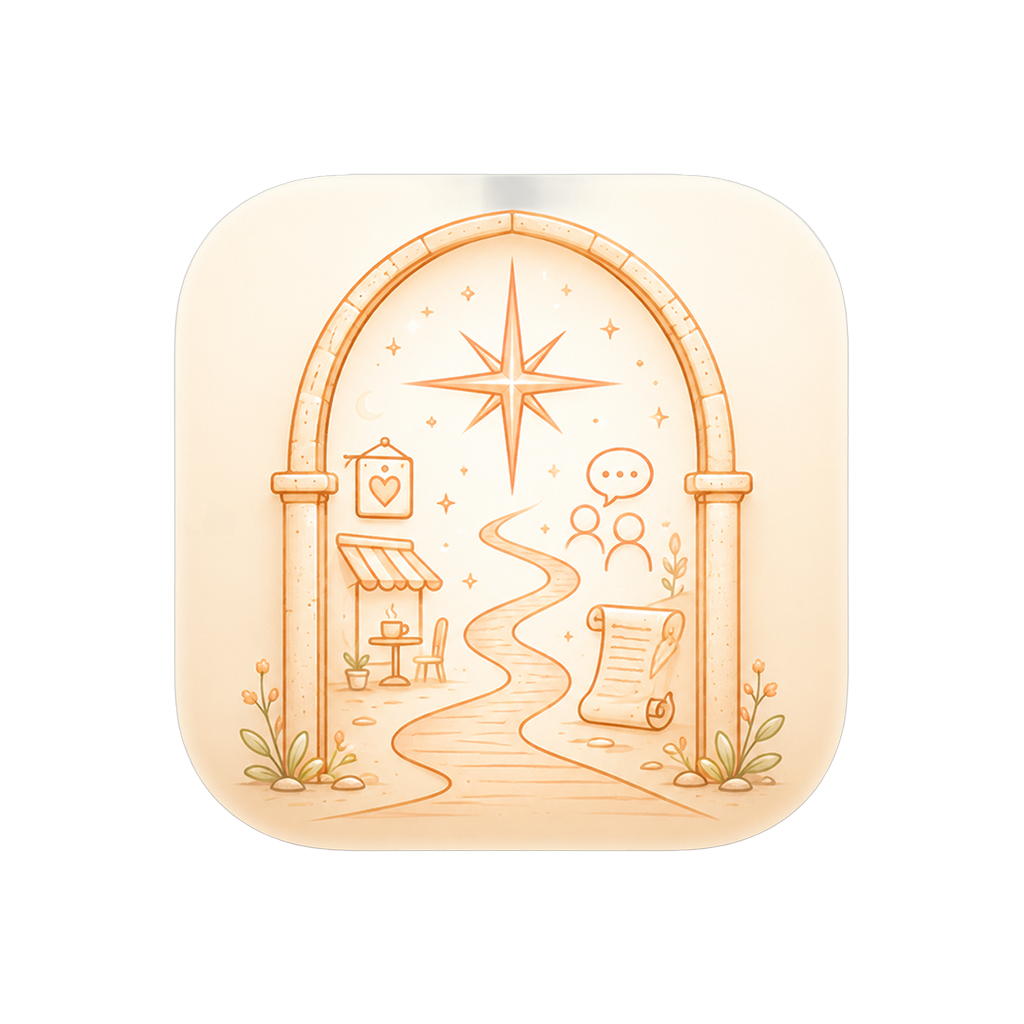
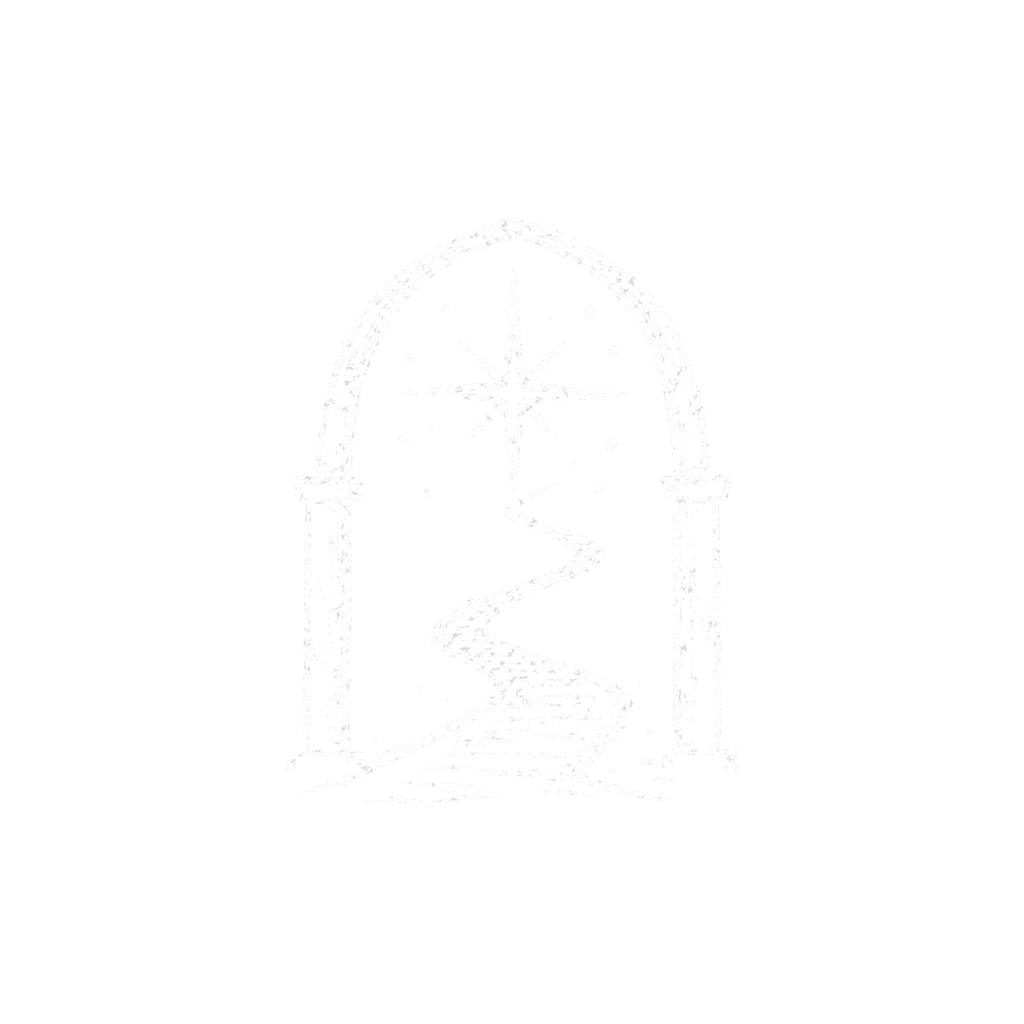
fix(startup): align native splash and brand intro

diff --git a/app/(auth)/welcome.tsx b/app/(auth)/welcome.tsx
@@ -1,104 +1,35 @@
-import { Image } from 'expo-image';
-import { LinearGradient } from 'expo-linear-gradient';
 import { router } from 'expo-router';
-import { StatusBar } from 'expo-status-bar';
-import { useEffect } from 'react';
-import { StyleSheet, Text, View } from 'react-native';
-import { useSafeAreaInsets } from 'react-native-safe-area-context';
+import { useEffect, useState } from 'react';
 
-import { useLanguage } from '../../context/LanguageContext';
+import { BrandIntro } from '../../components/BrandIntro';
 import { useAuthStore } from '../../store/authStore';
-import { colors } from '../../theme/tokens';
 
-const REDIRECT_DELAY_MS = 1000;
-const LOGO_MARK_SIZE = 164;
+const REDIRECT_DELAY_MS = 1500;
 
 /**
- * Welcome / brand-reveal screen. Shown once on cold start as a 1-second
- * splash-style intro, then auto-redirects:
- *   - authenticated → /(tabs)/plaza
- *   - not authenticated → /(auth)/login
- *
- * No CTA buttons — the page is purely a brand moment, not a hub. Sign-up
- * still lives as a link inside /(auth)/login.
+ * Welcome / brand-reveal screen. Shown after the short root brand frame, then
+ * auto-redirects auth-aware:
+ *   - authenticated -> /(tabs)/plaza
+ *   - not authenticated -> /(auth)/login
  */
 export default function WelcomeScreen() {
-  const { t } = useLanguage();
-  const insets = useSafeAreaInsets();
   const isAuthenticated = useAuthStore((s) => s.isAuthenticated);
   const hasHydrated = useAuthStore((s) => s.hasHydrated);
+  const [minimumElapsed, setMinimumElapsed] = useState(false);
 
-  // Wait for cold-start hydrate to finish before deciding where to send the
-  // user — otherwise a slow SecureStore read could fire the timer with a
-  // stale `isAuthenticated=false` and bounce a logged-in user to /login.
   useEffect(() => {
-    if (!hasHydrated) return;
     const timer = setTimeout(() => {
-      router.replace(isAuthenticated ? '/(tabs)/plaza' : '/(auth)/login');
+      setMinimumElapsed(true);
     }, REDIRECT_DELAY_MS);
     return () => clearTimeout(timer);
-  }, [hasHydrated, isAuthenticated]);
+  }, []);
 
-  return (
-    <View style={{ flex: 1, backgroundColor: colors.brandCoral }}>
-      <StatusBar style="light" />
+  // Wait for both the visible brand moment and auth hydrate. If SecureStore is
+  // slow, correctness wins; otherwise welcome stays on-screen for 1.5 seconds.
+  useEffect(() => {
+    if (!minimumElapsed || !hasHydrated) return;
+    router.replace(isAuthenticated ? '/(tabs)/plaza' : '/(auth)/login');
+  }, [hasHydrated, isAuthenticated, minimumElapsed]);
 
-      <LinearGradient
-        colors={['#FA8E84', '#F67673', '#E5605C']}
-        start={{ x: 0.5, y: 0 }}
-        end={{ x: 0.5, y: 1 }}
-        style={StyleSheet.absoluteFill}
-      />
-
-      <View
-        style={{
-          flex: 1,
-          paddingHorizontal: 32,
-          paddingTop: Math.max(insets.top + 24, 56),
-          paddingBottom: Math.max(insets.bottom + 28, 36),
-          alignItems: 'center',
-          justifyContent: 'center',
-        }}
-      >
-        <View style={{ alignItems: 'center' }}>
-          <Image
-            source={require('../../assets/images/UI/1.png')}
-            style={{
-              width: LOGO_MARK_SIZE,
-              height: LOGO_MARK_SIZE,
-              marginBottom: 18,
-            }}
-            contentFit="contain"
-          />
-
-          <Text
-            style={{
-              fontFamily: 'PlusJakartaSans_800ExtraBold',
-              fontSize: 38,
-              fontWeight: '800',
-              letterSpacing: 1.2,
-              lineHeight: 44,
-            }}
-          >
-            <Text style={{ color: '#FFD75E' }}>POSTER</Text>
-            <Text style={{ color: '#FFEDB5' }}>VIA</Text>
-          </Text>
-
-          <Text
-            style={{
-              marginTop: 14,
-              fontSize: 14,
-              lineHeight: 20,
-              color: 'rgba(255,255,255,0.92)',
-              textAlign: 'center',
-              paddingHorizontal: 8,
-              letterSpacing: 0.2,
-            }}
-          >
-            {t.auth.welcome_tagline}
-          </Text>
-        </View>
-      </View>
-    </View>
-  );
+  return <BrandIntro />;
 }

diff --git a/app/_layout.tsx b/app/_layout.tsx
@@ -1,17 +1,10 @@
 import '../global.css';
 
-// Crash / error infrastructure must initialize BEFORE any other import so the
-// global handler is armed if anything below throws on module load.
-import * as SplashScreen from 'expo-splash-screen';
-
 import { initSentry, Sentry } from '../lib/sentry';
 import { installGlobalErrorHandler } from '../lib/globalErrorHandler';
 
 initSentry();
 installGlobalErrorHandler();
-SplashScreen.preventAutoHideAsync().catch(() => {
-  // Splash may already be hidden on hot reload; that's fine.
-});
 
 import {
   PlusJakartaSans_500Medium,
@@ -23,12 +16,11 @@ import {
 import { QueryClientProvider } from '@tanstack/react-query';
 import { StyleSheet } from 'nativewind';
 import { StatusBar } from 'expo-status-bar';
-import { Stack, useRouter, useSegments } from 'expo-router';
+import { Stack, usePathname, useRouter, useSegments } from 'expo-router';
 import { useEffect, useRef, useState } from 'react';
 import { SafeAreaProvider } from 'react-native-safe-area-context';
 import { GestureHandlerRootView } from 'react-native-gesture-handler';
 
-import { BootDebugScreen } from '../components/BootDebugScreen';
 import { ErrorBoundary } from '../components/ErrorBoundary';
 import { LanguageProvider, useLanguage } from '../context/LanguageContext';
 import { PendingDeletionBanner } from '../components/PendingDeletionBanner';
@@ -70,16 +62,10 @@ try {
 }
 
 function RootLayout() {
-  const [bootPhase, setBootPhase] = useState<string>('module_loaded');
-  const [debugLog, setDebugLog] = useState<string[]>(['module_loaded']);
   const [failureCount, setFailureCount] = useState(0);
   const [inSafeMode, setInSafeMode] = useState(false);
-  const [bootReady, setBootReady] = useState(false);
 
   const advancePhase = (phase: string) => {
-    const stamp = String(Date.now() % 1_000_000).padStart(6, '0');
-    setBootPhase(phase);
-    setDebugLog((prev) => [...prev, `${stamp} ${phase}`]);
     addSentryBreadcrumb(`boot:${phase}`);
     try {
       Sentry.captureMessage(`boot:${phase}`, 'info');
@@ -89,16 +75,13 @@ function RootLayout() {
   };
 
   useEffect(() => {
-    // Hide splash immediately so the debug overlay is visible if anything
-    // below hangs. On a healthy boot the user never sees the overlay long
-    // enough to register it as a distinct screen — it just looks like
-    // splash → welcome.
-    SplashScreen.hideAsync().catch(() => {});
-
     (async () => {
       try {
         advancePhase('loading_state');
-        const state = await loadBootState();
+        const state = await withStartupTimeout(loadBootState(), {
+          failureCount: 0,
+          shouldEnterSafeMode: false,
+        });
         advancePhase(`state_loaded(fail=${state.failureCount})`);
         setFailureCount(state.failureCount);
 
@@ -109,10 +92,9 @@ function RootLayout() {
         }
 
         advancePhase('arming_watchdog');
-        await startBootWatchdog(state.failureCount);
+        await withStartupTimeout(startBootWatchdog(state.failureCount), undefined);
         advancePhase('watchdog_armed');
 
-        setBootReady(true);
         advancePhase('boot_ready');
       } catch (err) {
         advancePhase(`error:${String(err).slice(0, 80)}`);
@@ -129,19 +111,13 @@ function RootLayout() {
     await resetBootCounter();
     setFailureCount(0);
     setInSafeMode(false);
-    setBootReady(false);
     advancePhase('retry_arming_watchdog');
-    await startBootWatchdog(0);
-    setBootReady(true);
+    await withStartupTimeout(startBootWatchdog(0), undefined);
     advancePhase('retry_boot_ready');
   };
 
   if (inSafeMode) {
     return <SafeModeScreen failureCount={failureCount} onRetry={handleRetry} />;
-  }
-
-  if (!bootReady) {
-    return <BootDebugScreen phase={bootPhase} log={debugLog} />;
   }
 
   return (
@@ -165,17 +141,9 @@ function AppBody() {
   const isAuthenticated = useAuthStore((s) => s.isAuthenticated);
   const [ready, setReady] = useState(false);
   const segments = useSegments();
+  const pathname = usePathname();
   const router = useRouter();
   const lastRedirect = useRef<string | null>(null);
-
-  useEffect(() => {
-    void markBootSuccess();
-    try {
-      Sentry.captureMessage('boot:body_mounted', 'info');
-    } catch {
-      // best-effort
-    }
-  }, []);
 
   useFonts({
     PlusJakartaSans_500Medium,
@@ -202,10 +170,21 @@ function AppBody() {
 
   useEffect(() => {
     if (!ready) return;
+    void markBootSuccess();
+    try {
+      Sentry.captureMessage('boot:body_ready', 'info');
+    } catch {
+      // best-effort
+    }
+  }, [ready]);
+
+  useEffect(() => {
+    if (!ready) return;
+    const isRootRoute = pathname === '/';
     const inAuthGroup = segments[0] === '(auth)';
     const isWelcome = inAuthGroup && segments[1] === 'welcome';
     const isPublicRoute = segments[0] === 'legal';
-    if (!isAuthenticated && !inAuthGroup && !isPublicRoute) {
+    if (!isAuthenticated && !isRootRoute && !inAuthGroup && !isPublicRoute) {
       if (lastRedirect.current !== 'welcome') {
         lastRedirect.current = 'welcome';
         router.replace('/(auth)/welcome');
@@ -218,7 +197,7 @@ function AppBody() {
     } else {
       lastRedirect.current = null;
     }
-  }, [ready, isAuthenticated, segments, router]);
+  }, [ready, isAuthenticated, pathname, segments, router]);
 
   return (
     <QueryClientProvider client={queryClient}>

diff --git a/components/BrandIntro.tsx b/components/BrandIntro.tsx
@@ -1,0 +1,36 @@
+import { Image } from 'expo-image';
+import { StatusBar } from 'expo-status-bar';
+import { StyleSheet, useWindowDimensions, View } from 'react-native';
+
+import { colors } from '../theme/tokens';
+
+const BRAND_IMAGE_WIDTH = 300;
+const BRAND_IMAGE_ASPECT_RATIO = 960 / 780;
+
+export function BrandIntro() {
+  const { width } = useWindowDimensions();
+  const imageWidth = Math.min(BRAND_IMAGE_WIDTH, width);
+
+  return (
+    <View style={styles.screen}>
+      <StatusBar style="light" />
+      <Image
+        source={require('../assets/splash-brand.png')}
+        style={{
+          width: imageWidth,
+          height: imageWidth / BRAND_IMAGE_ASPECT_RATIO,
+        }}
+        contentFit="contain"
+      />
+    </View>
+  );
+}
+
+const styles = StyleSheet.create({
+  screen: {
+    flex: 1,
+    backgroundColor: colors.brandCoral,
+    alignItems: 'center',
+    justifyContent: 'center',
+  },
+});

diff --git a/app/index.tsx b/app/index.tsx
@@ -1,7 +1,20 @@
-import { Redirect } from 'expo-router';
+import { router } from 'expo-router';
+import { useEffect } from 'react';
 
-// Always show the welcome / brand-reveal screen first. Welcome.tsx runs a
-// 1-second timer then redirects auth-aware: authenticated → plaza, else login.
+import { BrandIntro } from '../components/BrandIntro';
+
+const WELCOME_ROUTE_DELAY_MS = 500;
+
+// Keep a short React-owned first frame before the auth-aware welcome route.
+// The native splash can disappear as soon as React is ready without becoming
+// responsible for app navigation.
 export default function Index() {
-  return <Redirect href="/(auth)/welcome" />;
+  useEffect(() => {
+    const timer = setTimeout(() => {
+      router.replace('/(auth)/welcome');
+    }, WELCOME_ROUTE_DELAY_MS);
+    return () => clearTimeout(timer);
+  }, []);
+
+  return <BrandIntro />;
 }

diff --git a/components/BootDebugScreen.tsx b/components/BootDebugScreen.tsx
@@ -20,7 +20,7 @@ export function BootDebugScreen({ phase, log }: BootDebugScreenProps) {
   return (
     <View style={styles.container}>
       <Image
-        source={require('../assets/splash-icon.png')}
+        source={require('../assets/splash-brand.png')}
         style={styles.icon}
         resizeMode="contain"
       />
@@ -43,13 +43,13 @@ export function BootDebugScreen({ phase, log }: BootDebugScreenProps) {
 const styles = StyleSheet.create({
   container: {
     flex: 1,
-    backgroundColor: colors.bgCream,
+    backgroundColor: colors.brandCoral,
     alignItems: 'center',
     justifyContent: 'center',
   },
   icon: {
-    width: 200,
-    height: 200,
+    width: 320,
+    height: 260,
   },
   footer: {
     position: 'absolute',
@@ -60,7 +60,7 @@ const styles = StyleSheet.create({
   },
   phase: {
     fontSize: 11,
-    color: colors.textSubtle,
+    color: 'rgba(255,255,255,0.82)',
     textAlign: 'center',
     letterSpacing: 0.4,
   },
@@ -71,7 +71,7 @@ const styles = StyleSheet.create({
   },
   logLine: {
     fontSize: 9,
-    color: colors.textSubtle,
+    color: 'rgba(255,255,255,0.72)',
     textAlign: 'center',
     fontFamily: 'Courier',
     lineHeight: 12,

diff --git a/lib/bootWatchdog.ts b/lib/bootWatchdog.ts
@@ -35,6 +35,7 @@ export async function loadBootState(): Promise<BootState> {
  * signal. Now even total SecureStore failure still emits a timeout event.
  */
 export async function startBootWatchdog(failureCount: number): Promise<void> {
+  if (bootMarked) return;
   if (watchdogTimer) clearTimeout(watchdogTimer);
   watchdogTimer = setTimeout(() => {
     if (bootMarked) return;